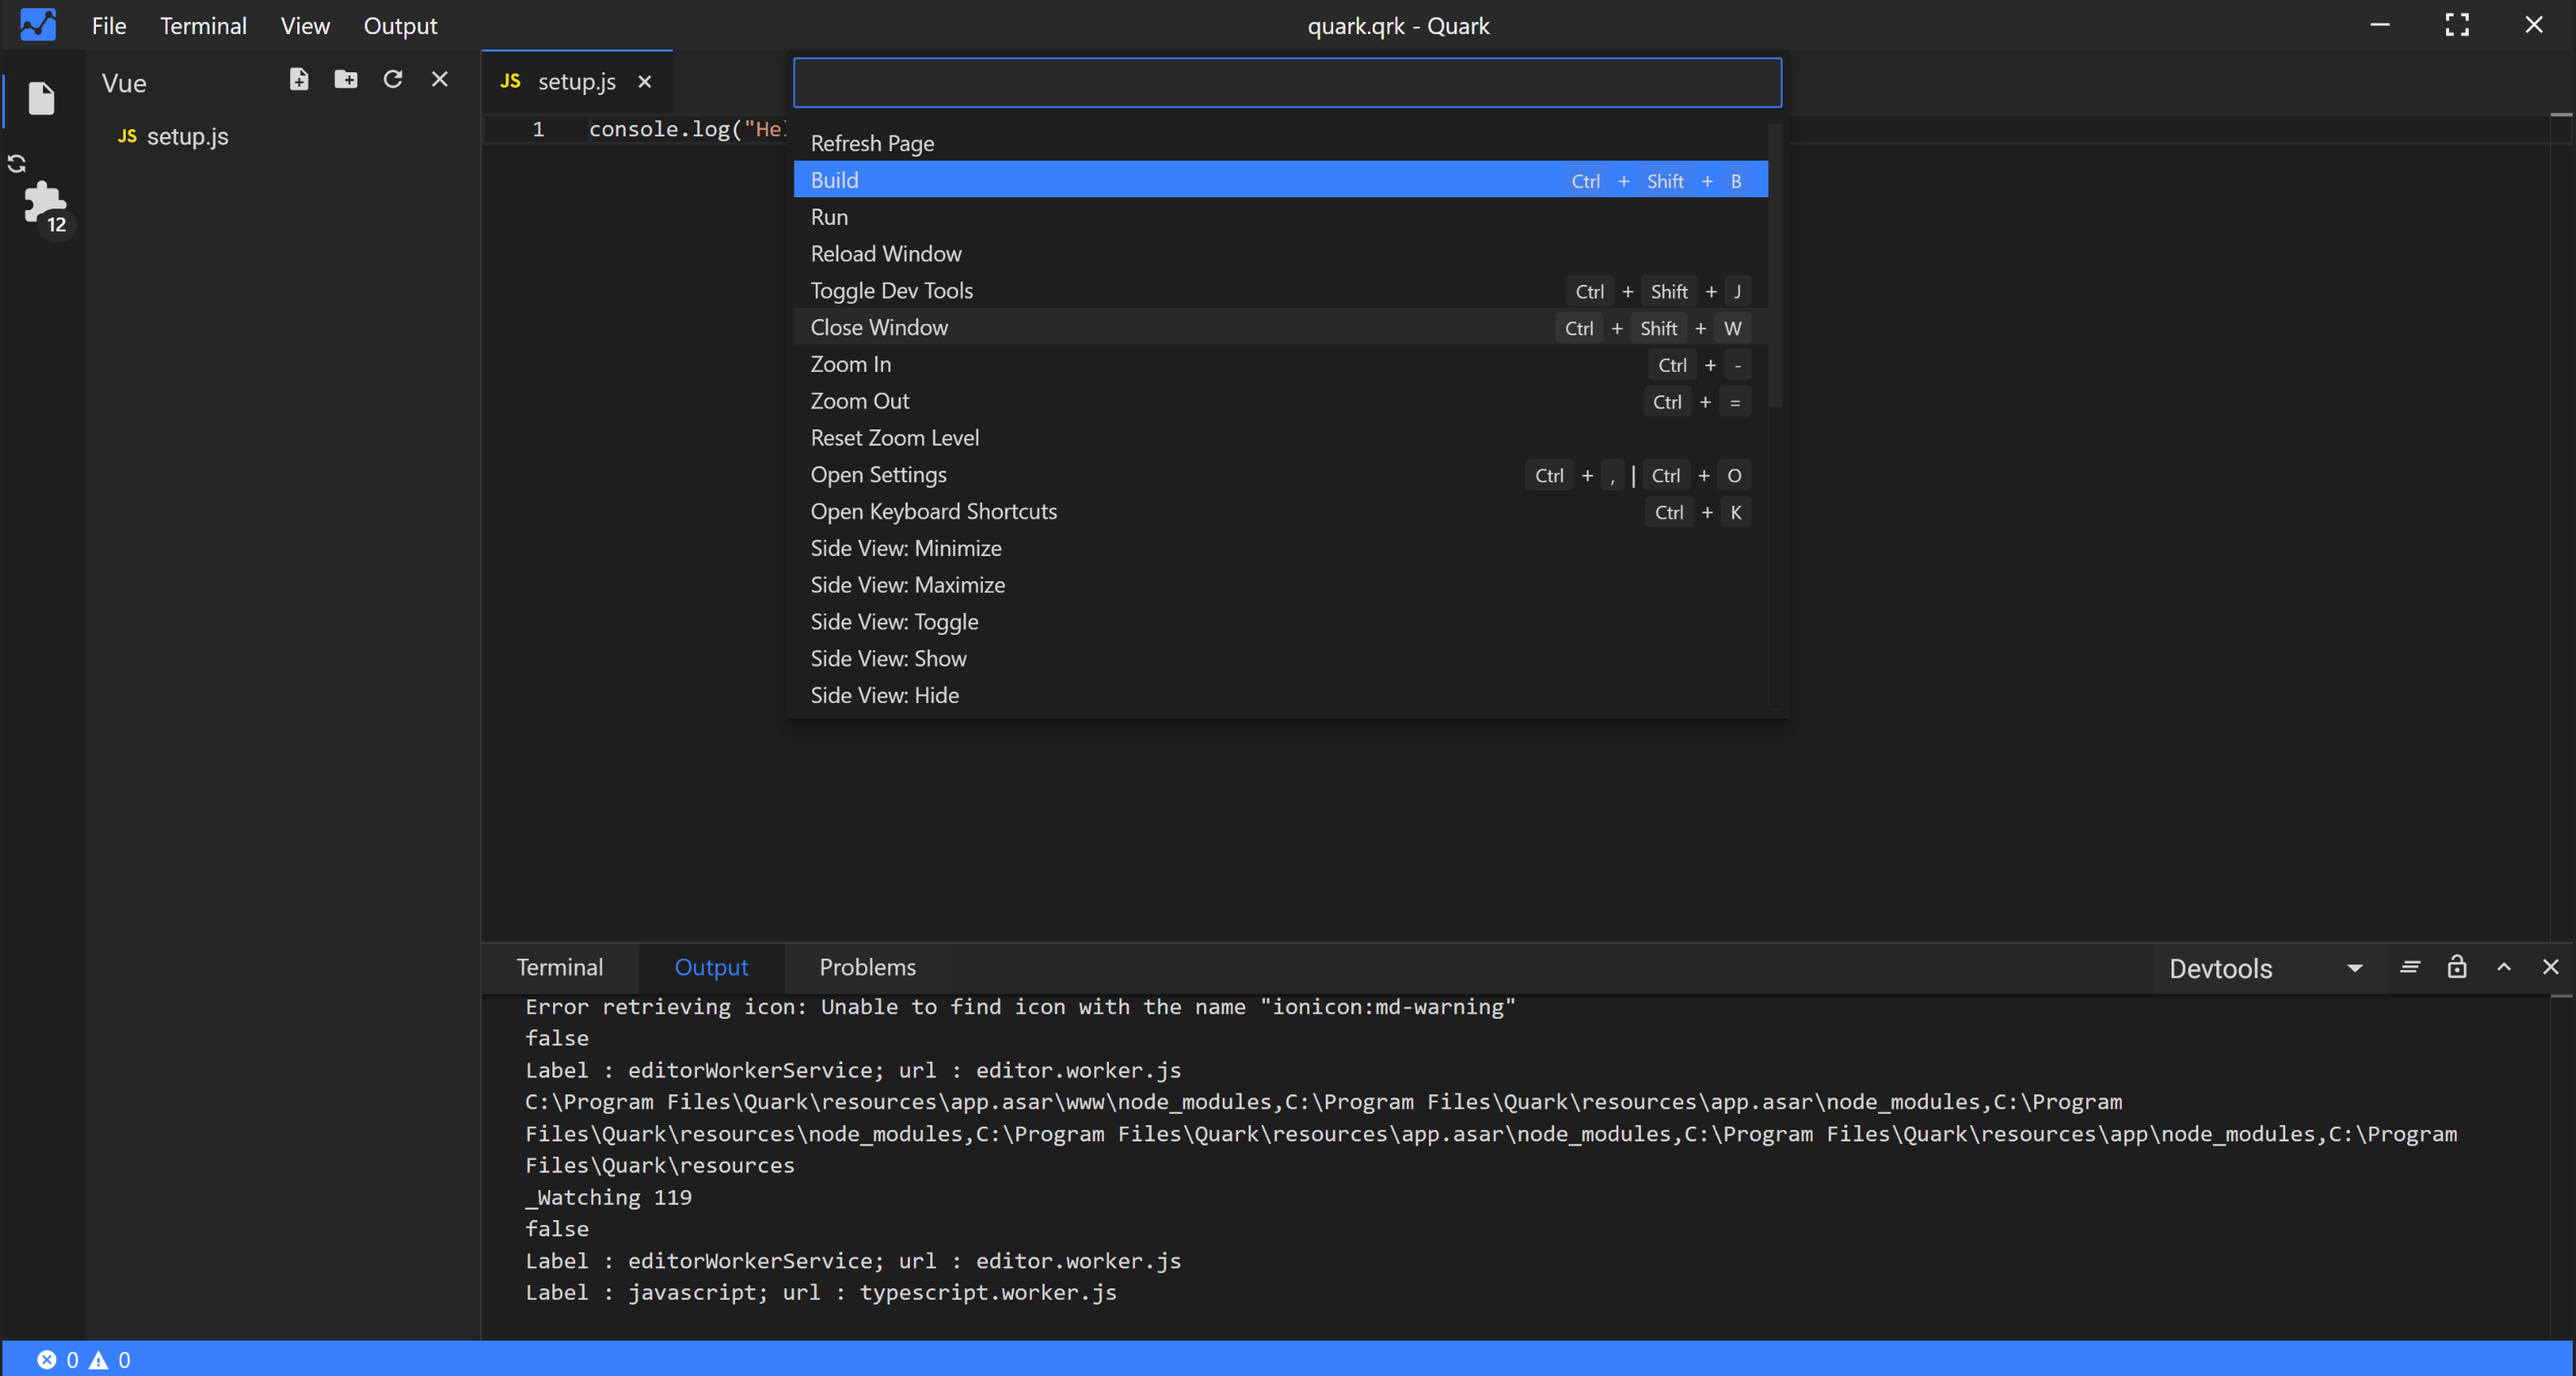
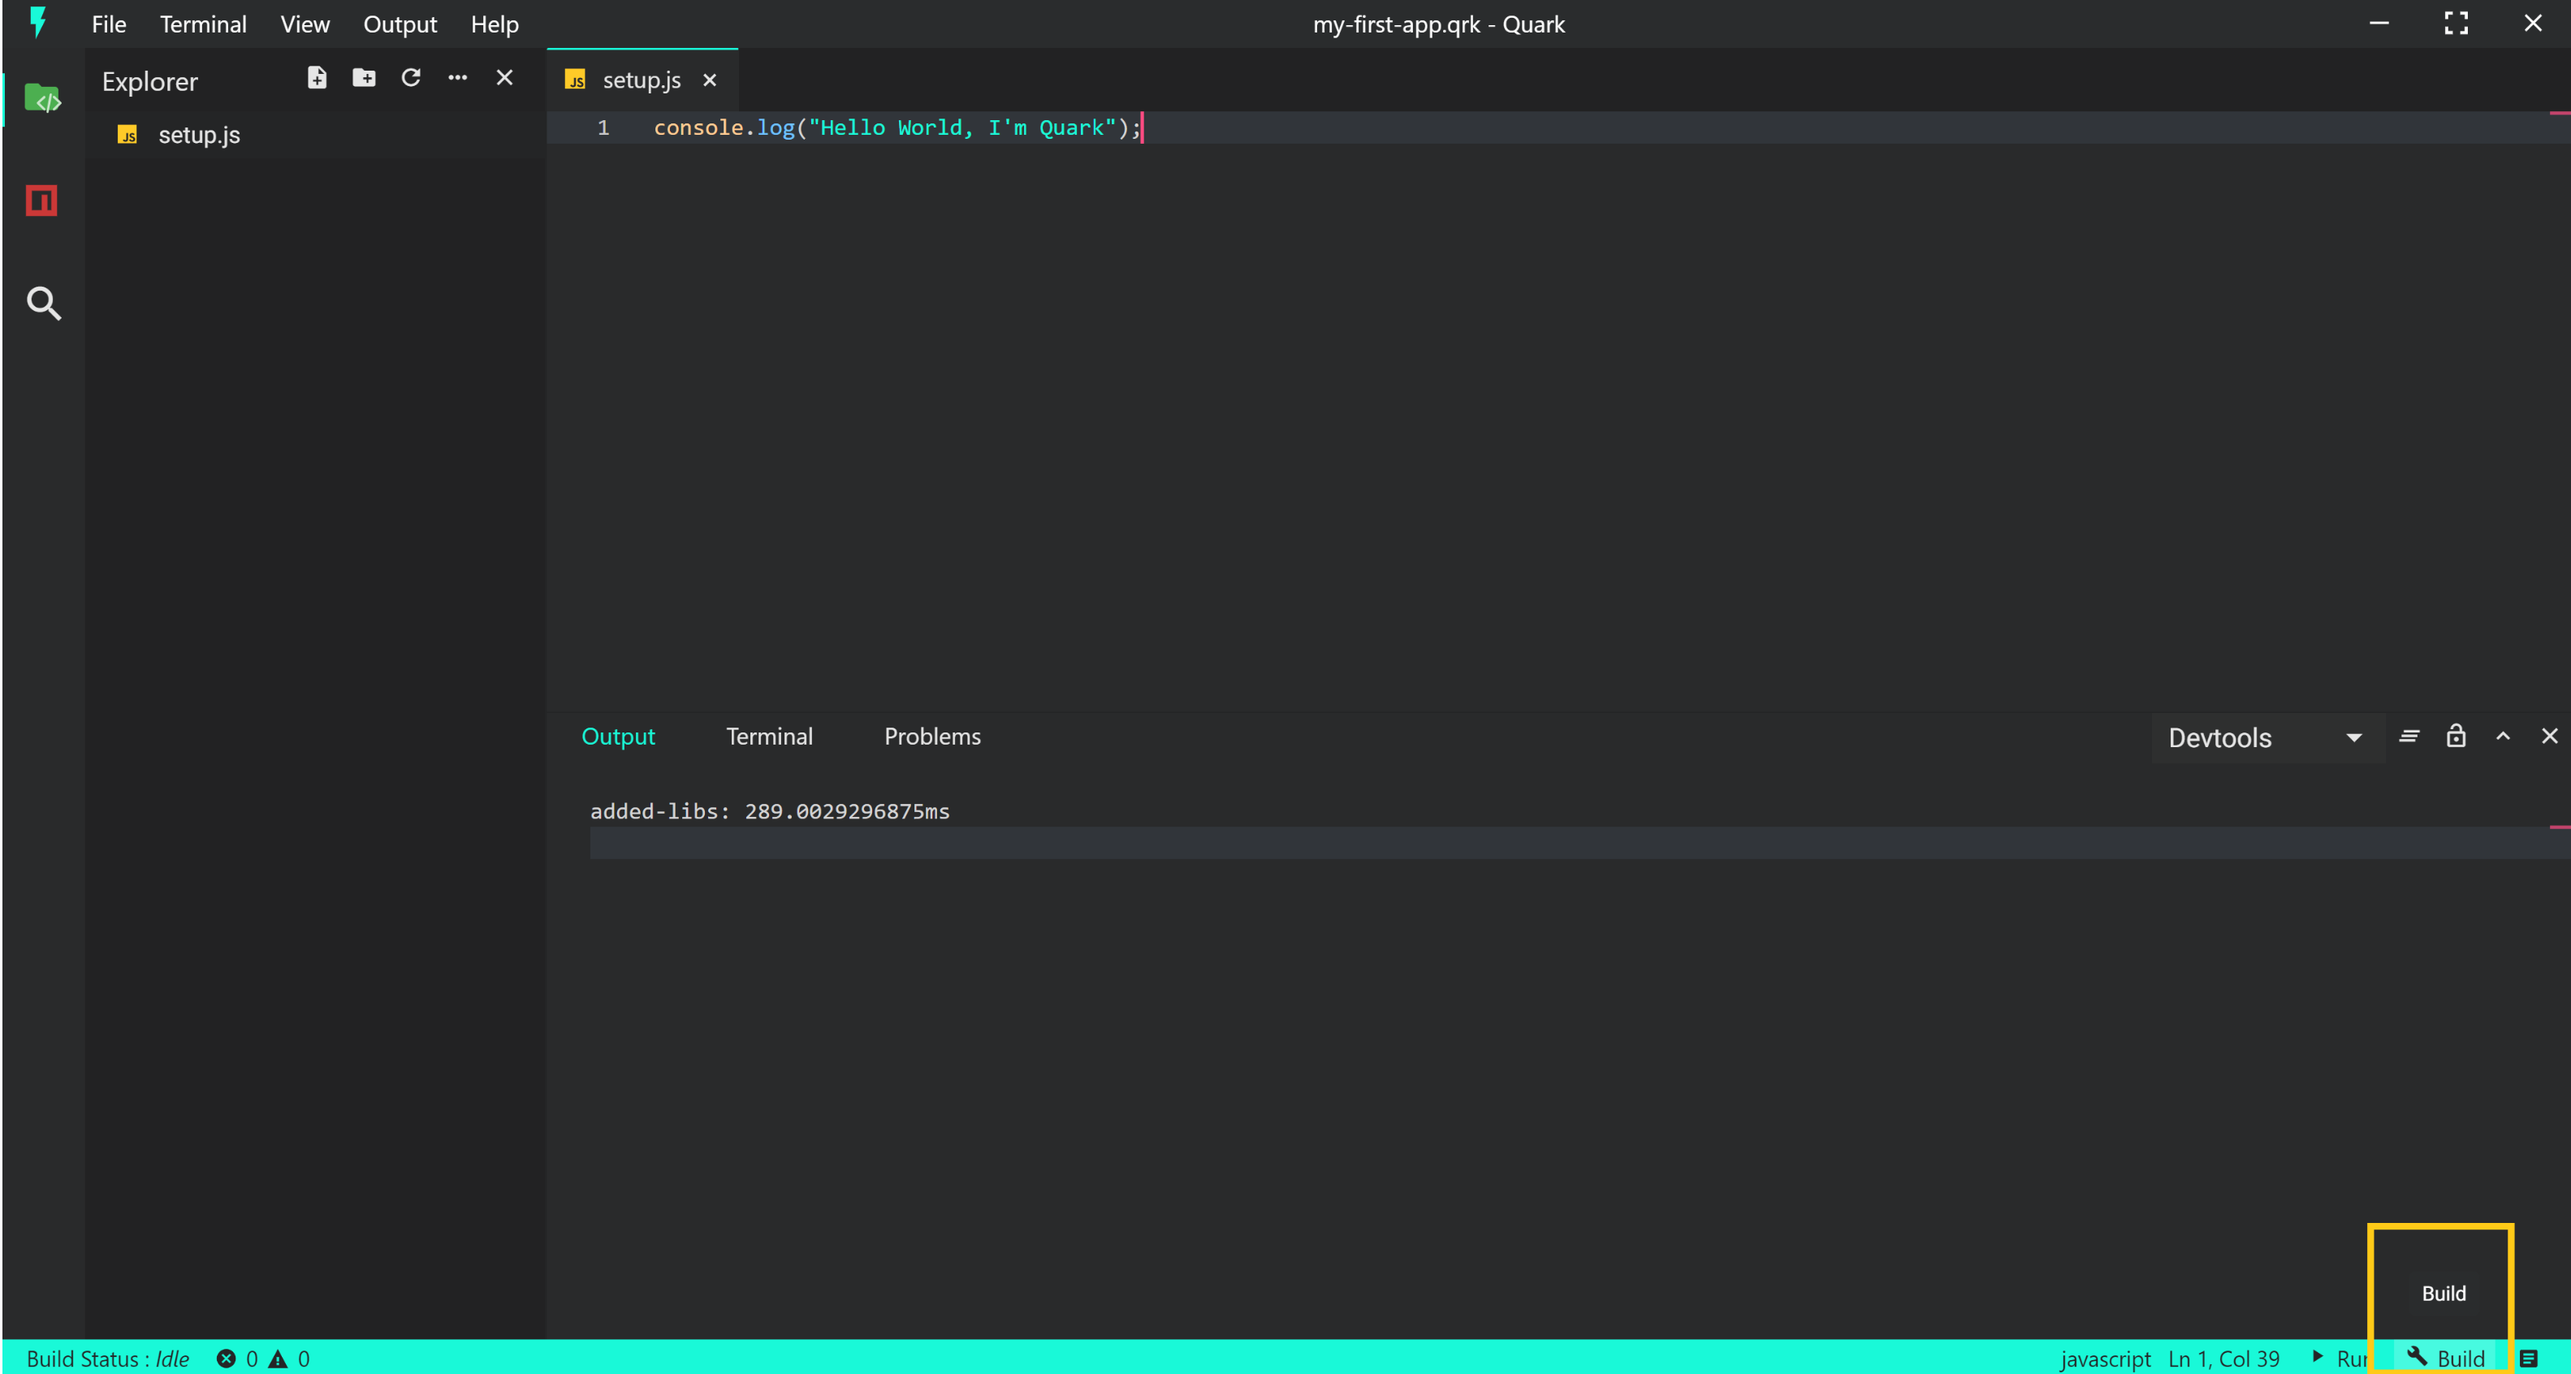
updated getting started guide

diff --git a/guide/getting-started.md b/guide/getting-started.md
@@ -1,21 +1,19 @@
 ---
-description : 'Welcome to Quark. Quark is a flexible software sketchbook that helps you rapidly create functional softwares for your prototypal projects.'
+description : 'This guide shows you how to build and run a simple Quark applet.'
 author : nishkal
 tags : ['guide']
 cover : ~@buildAssets/guide/getting-started.png
 ---
 
 # Getting Started
-Welcome to Quark. Quark is a flexible software sketchbook that helps you rapidly create functional softwares for your prototypal projects.
-
-This guide shows you how to build and run a simple quark sketch. You'll use the [Quark IDE](/guide/quark-ide.md) to create and build your sketches.
+<Header />
 
 #### Estimated completion time : Less than 5 minutes.
 
 [[toc]]
 
-## Prerequisites
-Before you begin, it is recommended that your development environment an npm package manager. Although, it is not strictly required to complete this guide.
+<!-- ## Prerequisites -->
+<!-- Before you begin, it is recommended that your development environment an npm package manager. Although, it is not strictly required to complete this guide. -->
 
 ## Steps
 ### Step 1: Installing the Quark IDE
@@ -23,9 +21,15 @@ You need to download and install the Quark IDE for your PC from [here.](/downloa
 
 ### Step 2: Starting a new Project
   1.  After installing Quark, open the IDE.
-  2.  You will be shown a welcome screen, click on __"Start a new Project"__.
+  2.  You will be shown a welcome screen. Click on __"Start a new Project"__
+
+![Landing Page](~@buildAssets/guide/getting-started/start-new-project.png =300x)
+
   3.  After entering the project name, click on 'Create' button.
+![Landing Page](~@buildAssets/guide/getting-started/enter-project-name.png)
   4.  If the project was created successfully, you will be prompted to open the project. Click on __"Open Project"__.
+
+![Landing Page](~@buildAssets/guide/getting-started/open-project.png =300x)
 
 ### Step 3: Navigating through the IDE
   1. After opening the project your view may look something like this.
@@ -48,23 +52,23 @@ You need to download and install the Quark IDE for your PC from [here.](/downloa
 console.log("Hello World, I'm Quark");
 ```
 
-### Step 5: Building the sketch
+### Step 5: Building the applet
 
-  1. To build the sketch, open the command palette __(defaults to "ctrl+shift+p")__. And select the build command. Your view now should look something like this.
+  <!-- 1. To build the sketch, open the command palette __(defaults to "ctrl+shift+p")__. And select the build command. Your view now should look something like this. -->
+  1. To build the applet, press the __build__ button at the bottom right corner of the IDE.
 
 ![Build](~@buildAssets/guide/intro/build.png)
 
-  1. Hit the enter key to run the build.
   2. To check the build logs, go to the Output section in Menu bar and select __"Build: Focus"__. This will focus on the build logs output channel.
 
 ![Build](~@buildAssets/guide/intro/build-focus.png)
 
-  4. As visible in the output, out build was successful, now lets run out sketch.
+  4. As visible in the output, out build was successful, now lets run out applet.
 
-### Step 6: Running the sketch
+### Step 6: Running the applet
 
-  1. To run the sketch, open the commands panel and select __"Run"__.
-  2. This should run our sketch and a new window will pop open like so.
+  1. To run the applet, press the __run__ button at the bottom right corner _(adjacent to the build button)_ of the IDE.
+  2. This should run our applet and a new window will pop open like so.
 
 ![Build](~@buildAssets/guide/intro/run.png)
 

diff --git a/guide/intro.md b/guide/intro.md
@@ -15,6 +15,11 @@ cover : ~@buildAssets/guide/introduction.png
 ## What is Quark ?
 Quark is a cross-platform, __integrated development environment__ and a __Javascript runtime__ for rapidly building - functional, utility applications written in HTML, CSS and JavaScript with native desktop app like capabilities.
 
+<video muted autoplay loop style="max-width:100%; height:auto" name="media" poster="~@buildAssets/guide/hello-world-intro.png" crossOrigin="anonymous">
+  <source src="~@buildAssets/guide/hello-world-intro.mp4" type="video/mp4">
+  Your browser does not support the video tag.
+</video> 
+
 Every application built with Quark is essentially some bundled Javascript code that is executed within the context of a __global runtime environment__ _(also provided by Quark)_. 
 
 Since these applications are dependent on this global execution context provided by Quark and have a direct dependency on the software itself, we call these applications __Quark Applets__.
@@ -40,7 +45,7 @@ Since every applet is essentially some bundled javascript code, Quark applets ar
 <!-- Under the hood, Quark achieves this functionality by combining several set of tools in one single package and abstracting away the complexity to setup an environment for every single time you start a new project. -->
 
 ## Quark development environment.
-Quark applications are built using it's integrated development environment that include a text editor and a code compiler. It enables the creation of applications within a carefully designed set of constraints. 
+Quark applications are built using it's integrated development environment that, at the very least, include a text editor and a code compiler. It enables the creation of applications within a carefully designed set of constraints. 
 
 Some of the [features](/guide/quark-ide.md) of Quark IDE include - smart auto completion, go to definition, find and replace,typescript support, built in package manager and code compiler.
 
